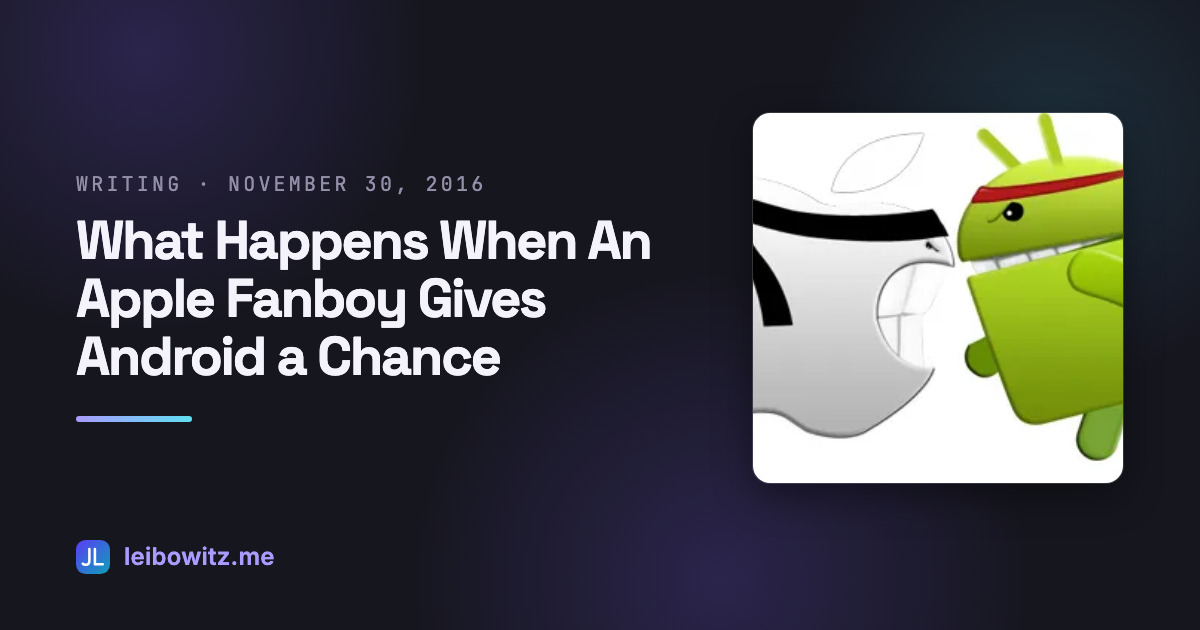
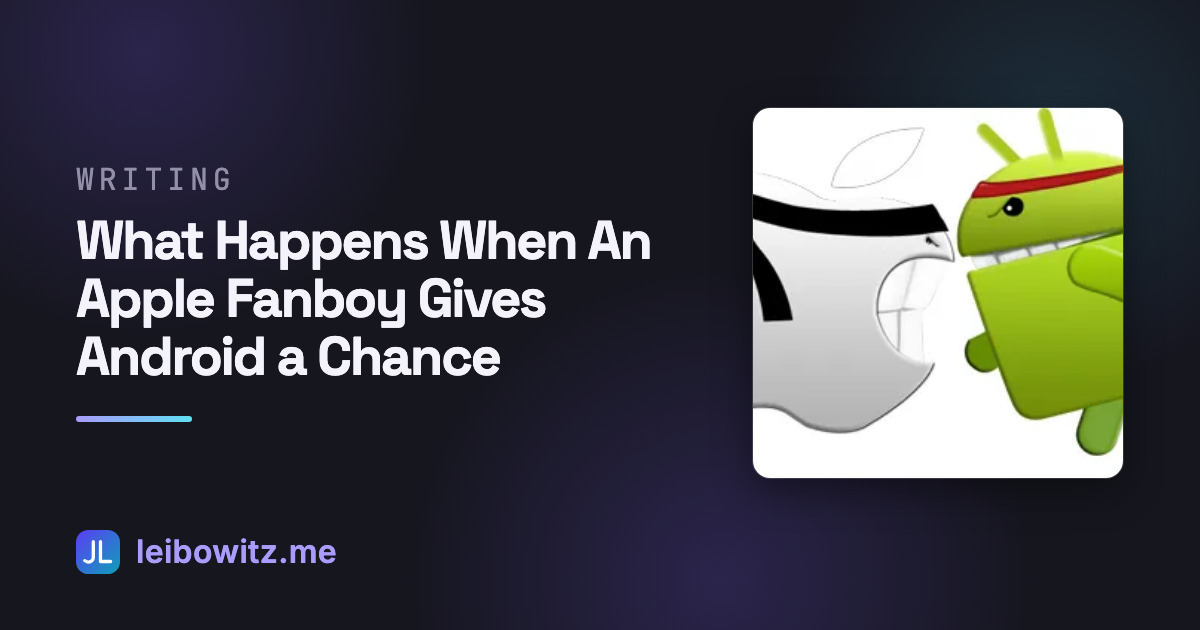
Set a 30px floor on share card type and drop the metadata lines
Claude-Session: https://claude.ai/code/session_016khyWXTfYkFZg4HGnCBtbc

diff --git a/CLAUDE.md b/CLAUDE.md
@@ -159,10 +159,10 @@ of the title is a second thing to drift.
 
 | Page            | Share card                                                    |
 | --------------- | ------------------------------------------------------------- |
-| `/writing`      | `og/writing.jpg`, the section title beside its 3 newest posts |
+| `/writing`      | `og/writing.jpg`, the section title beside its 2 newest posts |
 | `/lists`        | `og/lists.jpg`, the page title beside a fan per list          |
-| A post          | `og/post/<id>.jpg`, its cover beside its title and date       |
-| A list          | `og/list/<id>.jpg`, its artwork fan over its title and counts |
+| A post          | `og/post/<id>.jpg`, its cover beside its title                |
+| A list          | `og/list/<id>.jpg`, its artwork fan over its title            |
 | A project       | its `icon`, re-encoded to PNG by `getImage()`                 |
 | Everything else | `og/default.jpg`, the orbit avatar with the name and role     |
 
